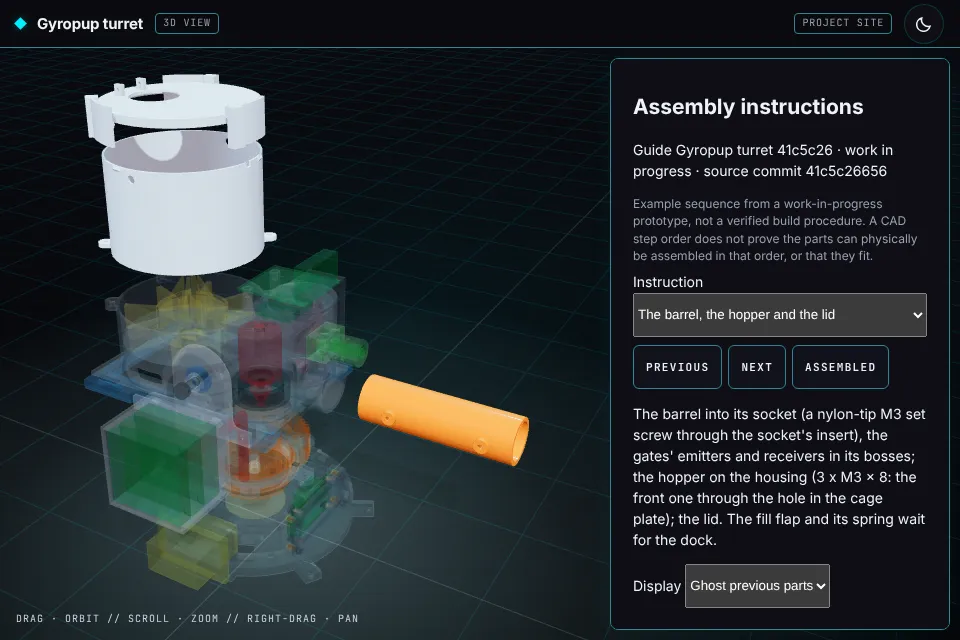
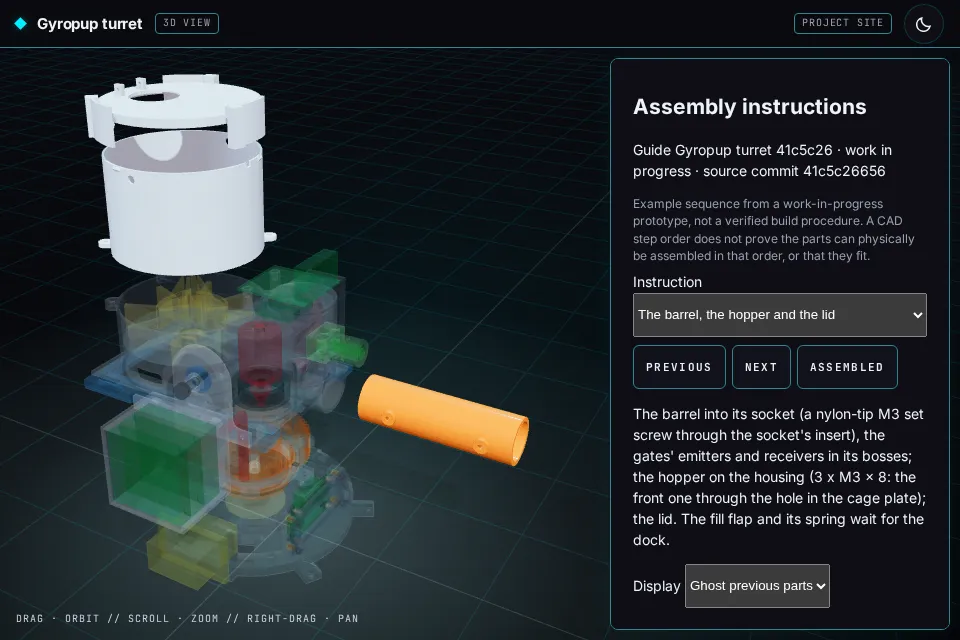
Show the original pump manifold in Toolkit and keep the homepage illustration aligned at reduced zoom (#826)

diff --git a/tools/site/assets/home.css b/tools/site/assets/home.css
@@ -40,7 +40,7 @@
 /* The pixel-art workshop stays as brand: a slim cropped band between the hero and the examples, its robots in frame.
    The crop keeps one aspect ratio, so the same part of the scene shows at every width. */
 .learning-band{margin:0 0 6px}
-.learning-band picture{display:block;aspect-ratio:1536/310;max-height:300px;overflow:hidden;border-radius:calc(14px*var(--round));background:var(--image)}
+.learning-band picture{display:block;width:100%;aspect-ratio:1536/310;overflow:hidden;border-radius:calc(14px*var(--round));background:var(--image)}
 .learning-band img{display:block;width:100%;height:100%;object-fit:cover;object-position:50% 70%;image-rendering:pixelated}
 .learning-band figcaption{font-size:12px;line-height:1.6;color:var(--muted);margin-top:8px;max-width:850px}
 @media(max-width:600px){.learning-band picture{aspect-ratio:956/380;border-radius:10px}}

diff --git a/tools/site/assets/toolkit/README.md b/tools/site/assets/toolkit/README.md
@@ -21,13 +21,14 @@ flowchart TD
 |---|---|
 | [assembly/](assembly/README.md) | The synthetic rail fixture, copied byte for byte and kept at its published URL; unlinked, not featured. |
 | [assembly.webp](assembly.webp) | Actual assembly reader on step 11 of Gyropup's turret guide: the barrel, hopper and lid arrive over the ghosted turret. |
-| [file-review.webp](file-review.webp) | Actual original STL viewer, showing the existing host example block in isometric view. |
+| [file-review.webp](file-review.webp) | Original-file viewer showing the pump manifold in isometric view. |
 | [SOURCE.json](SOURCE.json) | The featured guide's revision and hashes, generator and runtime hashes, preview hashes; browser version, route and controlled scene state. |
 
 ![Assembly reader on step 11 of Gyropup's turret guide](assembly.webp)
 
 The site copies these bytes to `/web/toolkit/`. Open the [build guide](https://cad-agent.valpatel.com/kit/model/viewer.html?guide=/kit/assembly/examples/gyropup-turret/guide.json)
-or the [original-file example](https://cad-agent.valpatel.com/kit/files/file-viewer.html?file=/kit/host/example.stl).
+or the [original-file example](https://cad-agent.valpatel.com/kit/files/file-viewer.html?file=/web/toolkit/pump-manifold.step).
+The pump manifold is the byte-for-byte [AgentCAD Fusion 360 export](../../../../software/vendor/agentcad/tests/fixtures/real_world/README.md). The [Apache 2.0 licence](../../../../software/vendor/agentcad/LICENSE) ships alongside the public STEP file.
 The guide is an example sequence from a work-in-progress prototype, not a verified build procedure; a CAD step order
 does not prove the parts can physically be assembled in that order. These previews demonstrate viewer controls, not
 physical fit, hardware design, or simulation accuracy.

diff --git a/docs/changelog.d/826-toolkit-file-example.md b/docs/changelog.d/826-toolkit-file-example.md
@@ -1,0 +1,5 @@
+**Changed**
+- The Toolkit file viewer opens a pump-manifold STEP export and offers the original for download (#826).
+
+**Fixed**
+- The homepage workshop illustration follows the content width on wide displays and when zooming out (#826).
